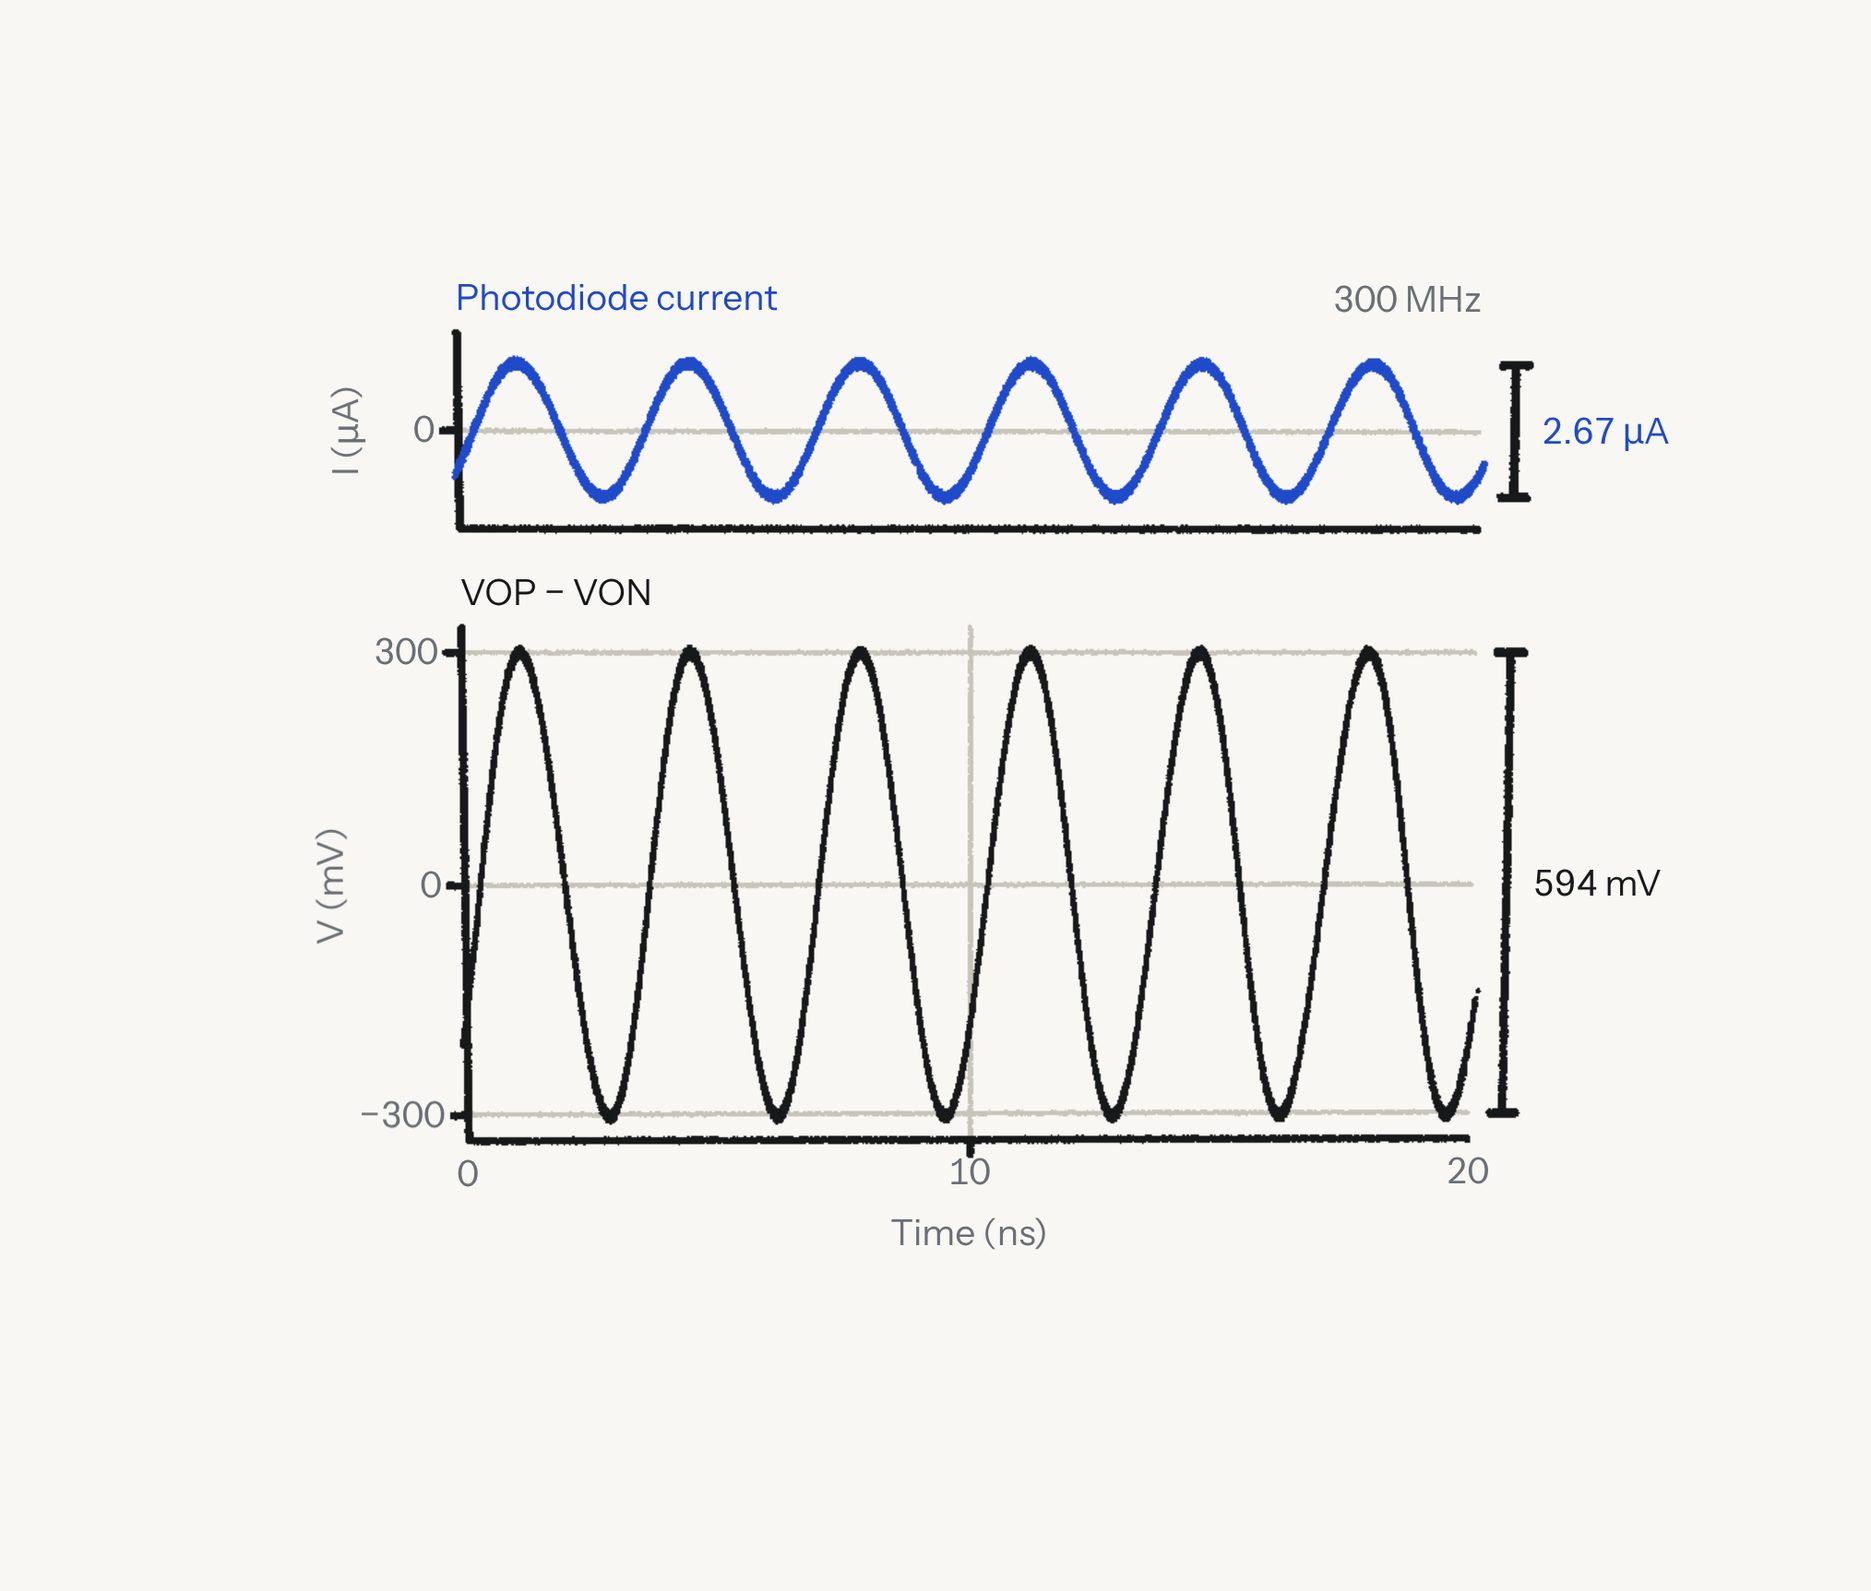
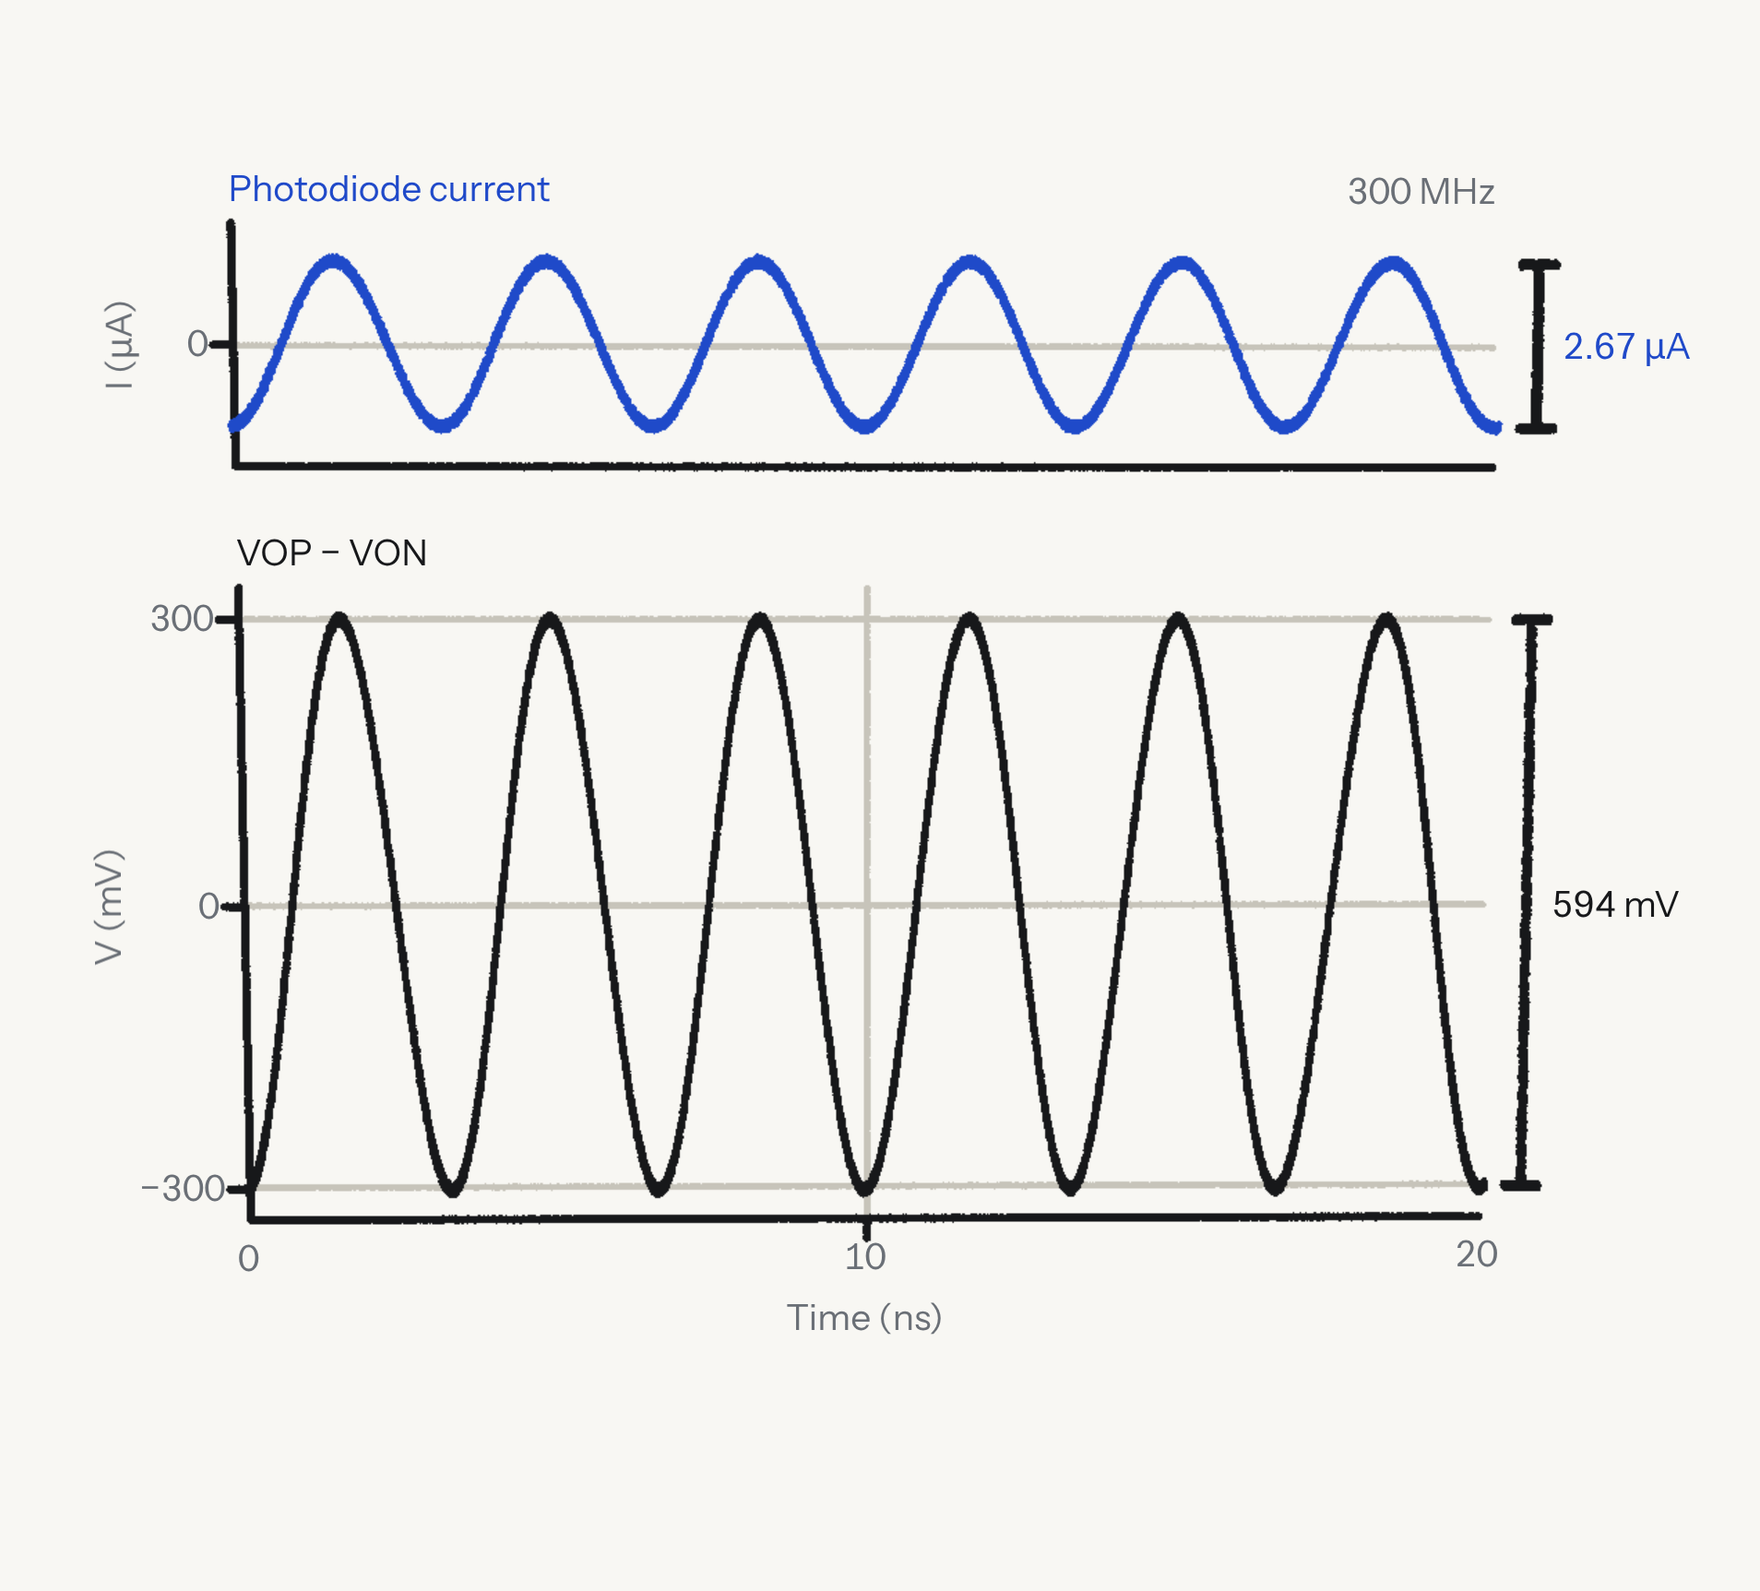
R3-04 TIA cloud: crisp wires, grid and curves; the two charts fill the box; axis labels clear; static PNGs re-captured
Thin rods scattered points over a 0.4 to 0.9 px radius with large points, so wires alternated between 1 and 3 px, the -3 dB line read dotted and curve rims were speckled. Rod radii, point sizes and curve tube radii are now smaller and tighter. The scope and gain chart cameras step back by box aspect (7.8, 1.1) so the charts fill the box width, the plot box shifts left for the longer right-hand labels, and tag offsets clear the 0 / 100 kHz overlap. The dead 11px sub rule is removed. The three static PNGs are re-captured at the new 636 px box (1908x1725) and the img sizes and min-width updated.

Claude-Session: https://claude.ai/code/session_018LMzagV9NcEfjj8oFWPqm4

Changed region(s): [[0.0928, 0.0922, 0.9586, 0.7988], [0.7731, 0.0922, 0.8349, 0.1229], [0.0618, 0.1843, 0.0928, 0.2458]]

diff --git a/assets/js/cloud.js b/assets/js/cloud.js
@@ -208,26 +208,26 @@
 
   // Charts. A flat chart in the x-y plane: ink axes with ticks, a light grid, and curves as thin
   // tubes. Values are mapped to the box X0..X1 by Y0..Y1; labels are HTML tags anchored to points.
-  var X0 = -1.95, X1 = 2.25, Y0 = -1.4, Y1 = 1.9;
+  var X0 = -2.15, X1 = 2.05, Y0 = -1.4, Y1 = 1.9;
   function axesParts(parts, x0, x1, y0, y1, xs, ys) {
-    xs.forEach(function (x) { parts.push({ w: 0.08, emit: rod([x, y0, -0.02], [x, y1, -0.02], 0.005, LIGHT, 0.75 * COV) }); parts.push({ w: 0.015, emit: rod([x, y0 - 0.07, 0], [x, y0, 0], 0.009, INK, 0.8 * COV) }); });
-    ys.forEach(function (y) { parts.push({ w: 0.1, emit: rod([x0, y, -0.02], [x1, y, -0.02], 0.005, LIGHT, 0.75 * COV) }); parts.push({ w: 0.015, emit: rod([x0 - 0.07, y, 0], [x0, y, 0], 0.009, INK, 0.8 * COV) }); });
-    parts.push({ w: 0.4, emit: rod([x0, y0, 0], [x1, y0, 0], 0.009, INK, 0.8 * COV) });
-    parts.push({ w: 0.32, emit: rod([x0, y0, 0], [x0, y1, 0], 0.009, INK, 0.8 * COV) });
+    xs.forEach(function (x) { parts.push({ w: 0.08, emit: rod([x, y0, -0.02], [x, y1, -0.02], 0.002, LIGHT, 0.9 * COV) }); parts.push({ w: 0.015, emit: rod([x, y0 - 0.07, 0], [x, y0, 0], 0.003, INK, 1.0 * COV) }); });
+    ys.forEach(function (y) { parts.push({ w: 0.1, emit: rod([x0, y, -0.02], [x1, y, -0.02], 0.002, LIGHT, 0.9 * COV) }); parts.push({ w: 0.015, emit: rod([x0 - 0.07, y, 0], [x0, y, 0], 0.003, INK, 1.0 * COV) }); });
+    parts.push({ w: 0.4, emit: rod([x0, y0, 0], [x1, y0, 0], 0.003, INK, 1.0 * COV) });
+    parts.push({ w: 0.32, emit: rod([x0, y0, 0], [x0, y1, 0], 0.003, INK, 1.0 * COV) });
     return parts;
   }
   function chart(xs, ys) { return axesParts([], X0, X1, Y0, Y1, xs, ys); }
   // Points along a curve given as [x,y] in scene units, as a tube of the given radius at depth z.
   // wave is the amplitude the vertex shader adds as a travelling sine (0 for still points).
   function curve(fn, radius, z, color, wave) {
-    return function (i, cnt) { var s = (i + 0.5 + 0.7 * (rnd() - 0.5)) / cnt, xy = fn(s), th = rnd() * 6.2832, r = radius * Math.sqrt(rnd()); return [xy[0] + r * Math.cos(th), xy[1] + r * Math.sin(th), z + (rnd() - .5) * radius, color, 0.95 * COV, wave || 0]; };
+    return function (i, cnt) { var s = (i + 0.5 + 0.7 * (rnd() - 0.5)) / cnt, xy = fn(s), th = rnd() * 6.2832, r = radius * Math.sqrt(rnd()); return [xy[0] + r * Math.cos(th), xy[1] + r * Math.sin(th), z + (rnd() - .5) * radius, color, 1.05 * COV, wave || 0]; };
   }
   function disc(c, r, color) {
     return function () { var th = rnd() * 6.2832, q = r * Math.sqrt(rnd()); return [c[0] + q * Math.cos(th), c[1] + q * Math.sin(th), c[2], color, 1.1 * COV]; };
   }
 
   // ---- Schematic drawing: wires and symbols in the x-y plane, as parts ----
-  var WIRE = 0.009, SYM = 0.95;   // thin wires drawn with small, dense points read crisper than thick fuzzy ones
+  var WIRE = 0.004, SYM = 1.05;   // thin wires drawn with small, dense points read crisper than thick fuzzy ones
   function W(parts, a, b, color, r) { var len = Math.hypot(b[0] - a[0], b[1] - a[1]); if (len < 1e-6) return; parts.push({ w: 0.42 * len, emit: rod([a[0], a[1], 0], [b[0], b[1], 0], r || WIRE, color, SYM * COV) }); }
   function poly(parts, pts, color) { for (var i = 1; i < pts.length; i++) W(parts, pts[i - 1], pts[i], color); }
   function arc(parts, c, r, a0, a1, color) { var n = 14, pts = []; for (var i = 0; i <= n; i++) { var a = a0 + (a1 - a0) * i / n; pts.push([c[0] + r * Math.cos(a), c[1] + r * Math.sin(a)]); } poly(parts, pts, color); }
@@ -372,13 +372,13 @@
 
   // Input current and differential output voltage against time: 2.67 µA peak to peak in at 300 MHz,
   // 594 mV peak to peak out (VOP minus VON). The sines travel; the vertex shader moves them.
-  var CAM_SCOPE = [0, 0.08, 9.6], CYCLES_SHOWN = 6;
+  var CAM_SCOPE = [0, 0.08, 7.8, 1.1], CYCLES_SHOWN = 6;
   function shapeScope() {
     var parts = [], yiT = 1.95, yiB = 1.15, yvT = 0.75, yvB = -1.4, ci = (yiT + yiB) / 2, cv = (yvT + yvB) / 2, ai = 0.27, av = 0.297 / 0.33 * (yvT - cv);
     axesParts(parts, X0, X1, yiB, yiT, [], [ci]);
     axesParts(parts, X0, X1, yvB, yvT, [(X0 + X1) / 2], [cv, cv + av, cv - av]);
-    parts.push({ w: 1.0, emit: curve(function (s) { return [X0 + s * (X1 - X0), ci]; }, 0.02, 0.03, BLUE, ai) });
-    parts.push({ w: 1.6, emit: curve(function (s) { return [X0 + s * (X1 - X0), cv]; }, 0.024, 0.03, INK, av) });
+    parts.push({ w: 1.0, emit: curve(function (s) { return [X0 + s * (X1 - X0), ci]; }, 0.014, 0.03, BLUE, ai) });
+    parts.push({ w: 1.6, emit: curve(function (s) { return [X0 + s * (X1 - X0), cv]; }, 0.016, 0.03, INK, av) });
     // peak-to-peak brackets at the right edge
     [[ci, ai], [cv, av]].forEach(function (b) { var x = X1 + 0.14; parts.push({ w: 0.12, emit: rod([x, b[0] - b[1], 0], [x, b[0] + b[1], 0], 0.01, INK, 0.9 * COV) }); [-1, 1].forEach(function (s) { parts.push({ w: 0.03, emit: rod([x - 0.06, b[0] + s * b[1], 0], [x + 0.06, b[0] + s * b[1], 0], 0.01, INK, 0.9 * COV) }); }); });
     var tags = {
@@ -386,7 +386,7 @@
       ipp: { p: [X1 + 0.14, ci, 0], dx: 10 }, vpp: { p: [X1 + 0.14, cv, 0], dx: 10 },
       i0: { p: [X0, ci, 0], dx: -8 }, v0: { p: [X0, cv, 0], dx: -8 }, vUp: { p: [X0, cv + av, 0], dx: -8 }, vDn: { p: [X0, cv - av, 0], dx: -8 },
       iunit: { p: [X0, ci, 0], dx: -40 }, vunit: { p: [X0, cv, 0], dx: -48 },
-      t0: { p: [X0, yvB, 0], dy: 12 }, t10: { p: [(X0 + X1) / 2, yvB, 0], dy: 12 }, t20: { p: [X1, yvB, 0], dy: 12 }, tlabel: { p: [(X0 + X1) / 2, yvB, 0], dy: 34 },
+      t0: { p: [X0, yvB, 0], dy: 14 }, t10: { p: [(X0 + X1) / 2, yvB, 0], dy: 14 }, t20: { p: [X1, yvB, 0], dy: 14 }, tlabel: { p: [(X0 + X1) / 2, yvB, 0], dy: 36 },
       freq: { p: [X1, yiT, 0], dy: -12 }
     };
     return build(parts, tags);
@@ -394,7 +394,7 @@
 
   // Transimpedance gain against frequency, read from the report's Spectre plot (VOP minus VON over the
   // photodiode current): flat near 109 dBΩ, 3 dB down at 2.31 MHz and 492.88 MHz.
-  var CAM_BODE = [0, 0.12, 9.6];
+  var CAM_BODE = [0, 0.12, 7.8, 1.1];
   var BODE = [[4.706,-11.0],[4.765,-4.1],[4.824,2.8],[4.882,9.6],[4.941,16.3],[5.0,22.9],[5.059,29.4],[5.118,35.8],[5.176,41.9],[5.235,47.9],[5.294,53.7],[5.353,59.1],[5.412,64.2],[5.471,69.1],[5.529,73.6],[5.588,77.7],[5.647,81.6],[5.706,85.1],[5.765,88.0],[5.824,90.6],[5.882,93.1],[5.941,95.2],[6.0,97.1],[6.059,98.5],[6.118,99.9],[6.176,101.3],[6.235,102.8],[6.294,103.8],[6.353,104.7],[6.412,105.5],[6.471,106.2],[6.529,106.9],[6.588,107.3],[6.647,107.6],[6.706,107.9],[6.765,108.2],[6.824,108.5],[6.882,108.7],[6.941,108.9],[7.0,109.0],[7.059,109.1],[7.118,109.3],[7.176,109.3],[7.235,109.3],[7.294,109.3],[7.353,109.3],[7.412,109.3],[7.471,109.3],[7.529,109.3],[7.588,109.3],[7.647,109.3],[7.706,109.3],[7.765,109.3],[7.824,109.3],[7.882,109.3],[7.941,109.3],[8.0,109.3],[8.059,109.2],[8.118,109.1],[8.176,109.0],[8.235,108.9],[8.294,108.9],[8.353,108.8],[8.412,108.6],[8.471,108.3],[8.529,107.8],[8.588,107.0],[8.647,105.8],[8.706,104.3],[8.765,102.8],[8.824,101.2],[8.882,99.5],[8.941,97.5],[9.0,95.1],[9.059,92.6],[9.118,89.8],[9.176,87.1],[9.235,84.0],[9.294,80.6],[9.353,76.9],[9.412,72.9],[9.471,68.7],[9.529,64.4],[9.588,60.0],[9.647,55.5],[9.706,50.8],[9.765,46.0],[9.824,41.1],[9.882,36.9],[9.941,33.3],[10.0,30.4]];
   function shapeBode() {
     var LG0 = 5, LG1 = 10, DB0 = 0, DB1 = 120, L3 = 104.7;
@@ -403,14 +403,14 @@
     var gainAt = function (lg) { var i = 0; while (i < data.length - 2 && data[i + 1][0] < lg) i++; var a = data[i], b = data[i + 1], f = Math.min(1, Math.max(0, (lg - a[0]) / (b[0] - a[0]))); return a[1] + (b[1] - a[1]) * f; };
     var lgStart = Math.max(LG0, data[0][0]);
     var parts = chart([6, 7, 8, 9].map(fx), [40, 80, 120].map(fy));
-    parts.push({ w: 1.6, emit: curve(function (s) { var lg = lgStart + s * (LG1 - lgStart); return [fx(lg), fy(Math.max(DB0, gainAt(lg)))]; }, 0.024, 0.03, INK) });
-    parts.push({ w: 0.25, emit: rod([X0, fy(L3), 0.01], [X1, fy(L3), 0.01], 0.006, shade(BLUE, 1.0), 0.8 * COV) });
+    parts.push({ w: 1.6, emit: curve(function (s) { var lg = lgStart + s * (LG1 - lgStart); return [fx(lg), fy(Math.max(DB0, gainAt(lg)))]; }, 0.016, 0.03, INK) });
+    parts.push({ w: 0.25, emit: rod([X0, fy(L3), 0.01], [X1, fy(L3), 0.01], 0.002, shade(BLUE, 1.0), 1.0 * COV) });
     var lo = Math.log10(2.31102e6), hi = Math.log10(492.868e6);
     parts.push({ w: 0.07, emit: disc([fx(lo), fy(L3), 0.05], 0.08, BLUE) }); parts.push({ w: 0.07, emit: disc([fx(hi), fy(L3), 0.05], 0.08, BLUE) });
     var tags = {
-      f100k: { p: [fx(5), Y0, 0], dy: 12 }, f1m: { p: [fx(6), Y0, 0], dy: 12 }, f10m: { p: [fx(7), Y0, 0], dy: 12 }, f100m: { p: [fx(8), Y0, 0], dy: 12 }, f1g: { p: [fx(9), Y0, 0], dy: 12 }, f10g: { p: [fx(10), Y0, 0], dy: 12 },
-      g0: { p: [X0, fy(0), 0], dx: -8 }, g40: { p: [X0, fy(40), 0], dx: -8 }, g80: { p: [X0, fy(80), 0], dx: -8 }, g120: { p: [X0, fy(120), 0], dx: -8 },
-      xlabel: { p: [(X0 + X1) / 2, Y0, 0], dy: 34 }, ylabel: { p: [X0, (Y0 + Y1) / 2, 0], dx: -48 },
+      f100k: { p: [fx(5), Y0, 0], dy: 14 }, f1m: { p: [fx(6), Y0, 0], dy: 14 }, f10m: { p: [fx(7), Y0, 0], dy: 14 }, f100m: { p: [fx(8), Y0, 0], dy: 14 }, f1g: { p: [fx(9), Y0, 0], dy: 14 }, f10g: { p: [fx(10), Y0, 0], dy: 14 },
+      g0: { p: [X0, fy(0), 0], dx: -8, dy: -4 }, g40: { p: [X0, fy(40), 0], dx: -8 }, g80: { p: [X0, fy(80), 0], dx: -8 }, g120: { p: [X0, fy(120), 0], dx: -8 },
+      xlabel: { p: [(X0 + X1) / 2, Y0, 0], dy: 36 }, ylabel: { p: [X0, (Y0 + Y1) / 2, 0], dx: -48 },
       plateau: { p: [fx(7.5), fy(109.3), 0], dy: -14 }, lo: { p: [fx(lo), fy(L3), 0], dx: -10, dy: -13 }, hi: { p: [fx(hi), fy(L3), 0], dx: 10, dy: -13 }, m3: { p: [X1, fy(L3), 0], dx: -4, dy: 13 }
     };
     return build(parts, tags);

diff --git a/index.html b/index.html
@@ -171,7 +171,7 @@ cloud: true
                 </ul>
                 <figure class="fig fig--static step-fig">
                   <p class="fig-title"><b>45 nm CMOS TIA.</b> Signal chain.</p>
-                  <img src="{{ '/assets/img/tia-chain.png' | relative_url }}" width="2028" height="1725" alt="Schematic of the TIA signal chain: photodiode model, common-gate stage, differential pair, four common-source stages per path, source followers, 600 Ω load" loading="lazy">
+                  <img src="{{ '/assets/img/tia-chain.png' | relative_url }}" width="1908" height="1725" alt="Schematic of the TIA signal chain: photodiode model, common-gate stage, differential pair, four common-source stages per path, source followers, 600 Ω load" loading="lazy">
                 </figure>
               </div>
               <div class="stage-step" data-step="1">
@@ -180,7 +180,7 @@ cloud: true
                 <p class="case-intro">Transient simulation: 2.67 µA peak to peak at 300 MHz in, 594 mV peak to peak across VOP and VON out.</p>
                 <figure class="fig fig--static step-fig">
                   <p class="fig-title"><b>45 nm CMOS TIA.</b> Transient simulation, 300 MHz.</p>
-                  <img src="{{ '/assets/img/tia-output.png' | relative_url }}" width="2028" height="1725" alt="Photodiode current, 2.67 µA peak to peak, and the differential output, 594 mV peak to peak, against time" loading="lazy">
+                  <img src="{{ '/assets/img/tia-output.png' | relative_url }}" width="1908" height="1725" alt="Photodiode current, 2.67 µA peak to peak, and the differential output, 594 mV peak to peak, against time" loading="lazy">
                 </figure>
               </div>
               <div class="stage-step" data-step="2">
@@ -189,7 +189,7 @@ cloud: true
                 <p class="case-intro">Gain flat at 109 dBΩ from 2.31 MHz to 492.88 MHz, from the Spectre AC sweep of VOP minus VON over the photodiode current.</p>
                 <figure class="fig fig--static step-fig">
                   <p class="fig-title"><b>45 nm CMOS TIA.</b> Spectre simulation, 1 V supply.</p>
-                  <img src="{{ '/assets/img/tia-gain.png' | relative_url }}" width="2028" height="1725" alt="Transimpedance gain against frequency: flat at 109 dBΩ, 3 dB down at 2.31 MHz and 492.88 MHz" loading="lazy">
+                  <img src="{{ '/assets/img/tia-gain.png' | relative_url }}" width="1908" height="1725" alt="Transimpedance gain against frequency: flat at 109 dBΩ, 3 dB down at 2.31 MHz and 492.88 MHz" loading="lazy">
                 </figure>
               </div>
             </div>
@@ -241,15 +241,15 @@ cloud: true
                 </div>
                 <figure class="fig fig--static box-fig" data-for="0">
                   <p class="fig-title"><b>45 nm CMOS TIA.</b> Signal chain.</p>
-                  <img src="{{ '/assets/img/tia-chain.png' | relative_url }}" width="2028" height="1725" alt="Schematic of the TIA signal chain: photodiode model, common-gate stage, differential pair, four common-source stages per path, source followers, 600 Ω load" loading="lazy">
+                  <img src="{{ '/assets/img/tia-chain.png' | relative_url }}" width="1908" height="1725" alt="Schematic of the TIA signal chain: photodiode model, common-gate stage, differential pair, four common-source stages per path, source followers, 600 Ω load" loading="lazy">
                 </figure>
                 <figure class="fig fig--static box-fig" data-for="1">
                   <p class="fig-title"><b>45 nm CMOS TIA.</b> Transient simulation, 300 MHz.</p>
-                  <img src="{{ '/assets/img/tia-output.png' | relative_url }}" width="2028" height="1725" alt="Photodiode current, 2.67 µA peak to peak, and the differential output, 594 mV peak to peak, against time" loading="lazy">
+                  <img src="{{ '/assets/img/tia-output.png' | relative_url }}" width="1908" height="1725" alt="Photodiode current, 2.67 µA peak to peak, and the differential output, 594 mV peak to peak, against time" loading="lazy">
                 </figure>
                 <figure class="fig fig--static box-fig" data-for="2">
                   <p class="fig-title"><b>45 nm CMOS TIA.</b> Spectre simulation, 1 V supply.</p>
-                  <img src="{{ '/assets/img/tia-gain.png' | relative_url }}" width="2028" height="1725" alt="Transimpedance gain against frequency: flat at 109 dBΩ, 3 dB down at 2.31 MHz and 492.88 MHz" loading="lazy">
+                  <img src="{{ '/assets/img/tia-gain.png' | relative_url }}" width="1908" height="1725" alt="Transimpedance gain against frequency: flat at 109 dBΩ, 3 dB down at 2.31 MHz and 492.88 MHz" loading="lazy">
                 </figure>
               </div>
             </div>

diff --git a/assets/css/style.css b/assets/css/style.css
@@ -191,7 +191,6 @@ main { padding-top: var(--nav-h); }
 .cloud-tag { position: absolute; left: 0; top: 0; transform-origin: 0 0; font-size: 13px; line-height: 1.2; color: var(--muted); white-space: nowrap; opacity: 0; will-change: transform, opacity; font-variant-numeric: tabular-nums; }
 .cloud-tag--dim { color: var(--ink); }
 .cloud-tag--chip { padding: 1px 5px; border-radius: 4px; background: rgba(248, 247, 243, .88); }
-.cloud-tag sub { font-size: 11px; }
 .cloud-tag--blue { color: var(--accent); }
 .cloud-step { margin-bottom: 6px; }
 .cloud-item { display: none; }
@@ -362,8 +361,8 @@ main { padding-top: var(--nav-h); }
 /* Not pinned: each step carries its own figure and the box is empty. Pinned without the cloud: the box shows the schematic. */
 .step-fig { margin-top: 18px; max-width: 900px; }
 @media (max-width: 640px) {
-  .fig--static { overflow-x: auto; -webkit-overflow-scrolling: touch; }   /* the 676px capture keeps its 13px labels and pans sideways inside the card */
-  .fig--static img { min-width: 676px; }
+  .fig--static { overflow-x: auto; -webkit-overflow-scrolling: touch; }   /* the 636px capture keeps its 13px labels and pans sideways inside the card */
+  .fig--static img { min-width: 636px; }
 }
 .box-fig { display: none; }
 .is-pinned .step-fig { display: none; }
